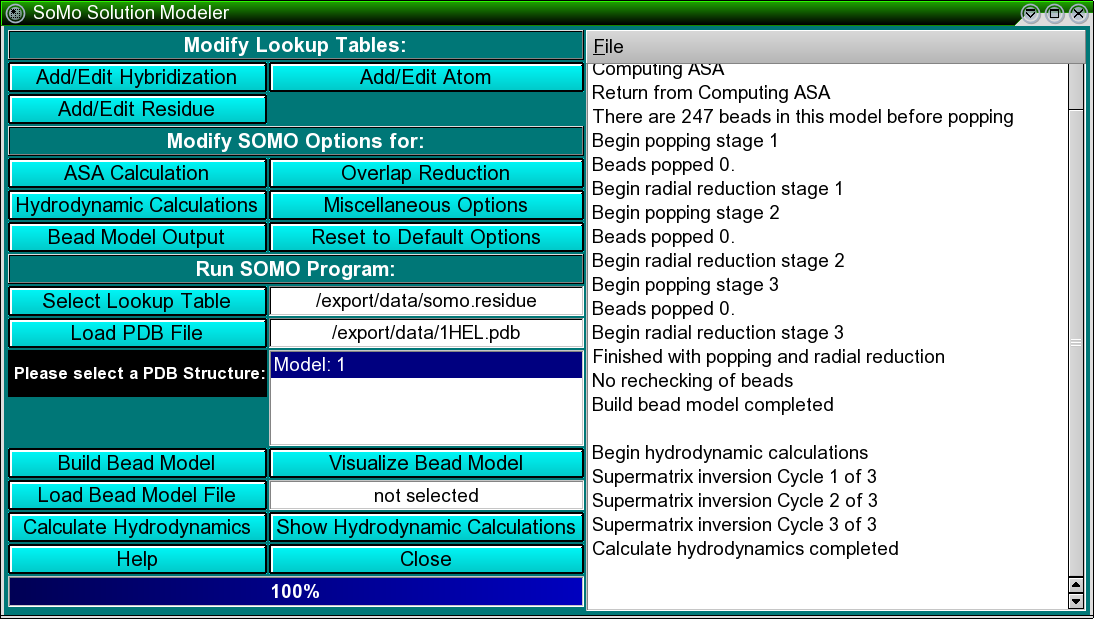
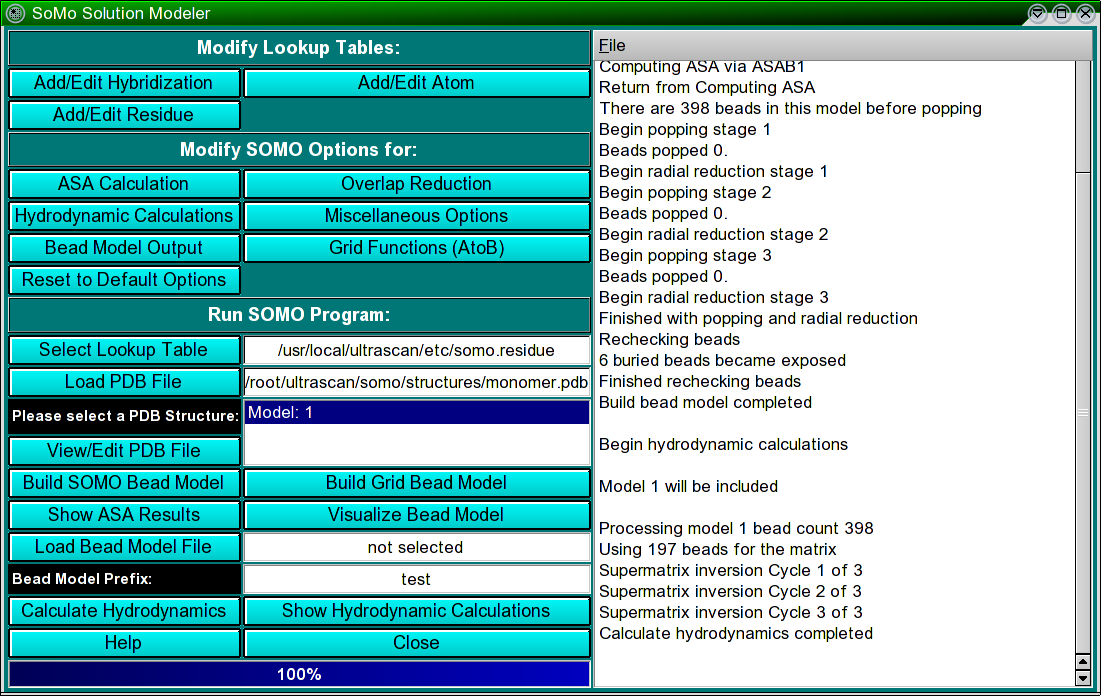
New files for grid options

diff --git a/develop/src/us_hydrodyn_grid.cpp b/develop/src/us_hydrodyn_grid.cpp
@@ -1,0 +1,182 @@
+#include "../include/us_hydrodyn_grid.h"
+
+US_Hydrodyn_Grid::US_Hydrodyn_Grid(struct grid_options *grid,
+bool *grid_widget, QWidget *p, const char *name) : QFrame(p, name)
+{
+	this->grid = grid;
+	this->grid_widget = grid_widget;
+	*grid_widget = true;
+	USglobal=new US_Config();
+	setPalette(QPalette(USglobal->global_colors.cg_frame, USglobal->global_colors.cg_frame, USglobal->global_colors.cg_frame));
+	setCaption(tr("SOMO Grid Function Options (AtoB)"));
+	setupGUI();
+	global_Xpos += 30;
+	global_Ypos += 30;
+	setGeometry(global_Xpos, global_Ypos, 0, 0);
+}
+
+US_Hydrodyn_Grid::~US_Hydrodyn_Grid()
+{
+	*grid_widget = false;
+}
+
+void US_Hydrodyn_Grid::setupGUI()
+{
+	int minHeight1 = 30;
+	QString str;	
+	lbl_info = new QLabel(tr("SOMO Grid Function Options (AtoB):"), this);
+	Q_CHECK_PTR(lbl_info);
+	lbl_info->setFrameStyle(QFrame::WinPanel|QFrame::Raised);
+	lbl_info->setAlignment(AlignCenter|AlignVCenter);
+	lbl_info->setMinimumHeight(minHeight1);
+	lbl_info->setPalette(QPalette(USglobal->global_colors.cg_frame, USglobal->global_colors.cg_frame, USglobal->global_colors.cg_frame));
+	lbl_info->setFont(QFont( USglobal->config_list.fontFamily, USglobal->config_list.fontSize + 1, QFont::Bold));
+
+	lbl_cube_side = new QLabel(tr(" Cube Side (Angstrom): "), this);
+	Q_CHECK_PTR(lbl_cube_side);
+	lbl_cube_side->setAlignment(AlignLeft|AlignVCenter);
+	lbl_cube_side->setMinimumHeight(minHeight1);
+	lbl_cube_side->setPalette( QPalette(USglobal->global_colors.cg_label, USglobal->global_colors.cg_label, USglobal->global_colors.cg_label));
+	lbl_cube_side->setFont(QFont( USglobal->config_list.fontFamily, USglobal->config_list.fontSize-1, QFont::Bold));
+
+	cnt_cube_side= new QwtCounter(this);
+	Q_CHECK_PTR(cnt_cube_side);
+	cnt_cube_side->setRange(0.1, 100, 0.1);
+	cnt_cube_side->setValue((*grid).cube_side);
+	cnt_cube_side->setMinimumHeight(minHeight1);
+	cnt_cube_side->setEnabled(true);
+	cnt_cube_side->setNumButtons(3);
+	cnt_cube_side->setFont(QFont(USglobal->config_list.fontFamily, USglobal->config_list.fontSize));
+	cnt_cube_side->setPalette( QPalette(USglobal->global_colors.cg_normal, USglobal->global_colors.cg_normal, USglobal->global_colors.cg_normal));
+	connect(cnt_cube_side, SIGNAL(valueChanged(double)), SLOT(update_cube_side(double)));
+
+	bg_center = new QButtonGroup(2, Qt::Horizontal, "Computations Relative to:", this);
+	bg_center->setExclusive(true);
+	connect(bg_center, SIGNAL(clicked(int)), this, SLOT(select_center(int)));
+
+	cb_center_mass = new QCheckBox(bg_center);
+	cb_center_mass->setText(tr(" Center of Mass "));
+	cb_center_mass->setEnabled(true);
+	cb_center_mass->setFont(QFont( USglobal->config_list.fontFamily, USglobal->config_list.fontSize));
+	cb_center_mass->setPalette( QPalette(USglobal->global_colors.cg_normal, USglobal->global_colors.cg_normal, USglobal->global_colors.cg_normal));
+
+	cb_center_cubelet = new QCheckBox(bg_center);
+	cb_center_cubelet->setText(tr(" Center of Cubelet "));
+	cb_center_cubelet->setEnabled(true);
+	cb_center_cubelet->setFont(QFont( USglobal->config_list.fontFamily, USglobal->config_list.fontSize));
+	cb_center_cubelet->setPalette( QPalette(USglobal->global_colors.cg_normal, USglobal->global_colors.cg_normal, USglobal->global_colors.cg_normal));
+
+	bg_center->setButton((*grid).center);
+
+	cb_cubic = new QCheckBox(this);
+	cb_cubic->setText(tr(" Apply Cubic Grid "));
+	cb_cubic->setChecked((*grid).cubic);
+	cb_cubic->setFont(QFont( USglobal->config_list.fontFamily, USglobal->config_list.fontSize));
+	cb_cubic->setPalette( QPalette(USglobal->global_colors.cg_normal, USglobal->global_colors.cg_normal, USglobal->global_colors.cg_normal));
+	connect(cb_cubic, SIGNAL(clicked()), this, SLOT(set_cubic()));
+
+	cb_hydrate = new QCheckBox(this);
+	cb_hydrate->setText(tr(" Hydrate the Original Model "));
+	cb_hydrate->setChecked((*grid).hydrate);
+	cb_hydrate->setFont(QFont( USglobal->config_list.fontFamily, USglobal->config_list.fontSize));
+	cb_hydrate->setPalette( QPalette(USglobal->global_colors.cg_normal, USglobal->global_colors.cg_normal, USglobal->global_colors.cg_normal));
+	connect(cb_hydrate, SIGNAL(clicked()), this, SLOT(set_hydrate()));
+
+	cb_tangency = new QCheckBox(this);
+	cb_tangency->setText(tr(" Expand Beads to Tangency "));
+	cb_tangency->setChecked((*grid).tangency);
+	cb_tangency->setFont(QFont( USglobal->config_list.fontFamily, USglobal->config_list.fontSize));
+	cb_tangency->setPalette( QPalette(USglobal->global_colors.cg_normal, USglobal->global_colors.cg_normal, USglobal->global_colors.cg_normal));
+	connect(cb_tangency, SIGNAL(clicked()), this, SLOT(set_tangency()));
+
+	cb_overlaps = new QCheckBox(this);
+	cb_overlaps->setText(tr(" Remove Overlaps "));
+	cb_overlaps->setChecked((*grid).overlaps);
+	cb_overlaps->setFont(QFont( USglobal->config_list.fontFamily, USglobal->config_list.fontSize));
+	cb_overlaps->setPalette( QPalette(USglobal->global_colors.cg_normal, USglobal->global_colors.cg_normal, USglobal->global_colors.cg_normal));
+	connect(cb_overlaps, SIGNAL(clicked()), this, SLOT(set_overlaps()));
+
+	pb_cancel = new QPushButton(tr("Close"), this);
+	Q_CHECK_PTR(pb_cancel);
+	pb_cancel->setFont(QFont( USglobal->config_list.fontFamily, USglobal->config_list.fontSize + 1));
+	pb_cancel->setMinimumHeight(minHeight1);
+	pb_cancel->setPalette( QPalette(USglobal->global_colors.cg_pushb, USglobal->global_colors.cg_pushb_disabled, USglobal->global_colors.cg_pushb_active));
+	connect(pb_cancel, SIGNAL(clicked()), SLOT(cancel()));
+
+	pb_help = new QPushButton(tr("Help"), this);
+	Q_CHECK_PTR(pb_help);
+	pb_help->setFont(QFont( USglobal->config_list.fontFamily, USglobal->config_list.fontSize + 1));
+	pb_help->setMinimumHeight(minHeight1);
+	pb_help->setPalette( QPalette(USglobal->global_colors.cg_pushb, USglobal->global_colors.cg_pushb_disabled, USglobal->global_colors.cg_pushb_active));
+	connect(pb_help, SIGNAL(clicked()), SLOT(help()));
+
+	int rows=6, columns = 2, spacing = 2, j=0, margin=4;
+	QGridLayout *background=new QGridLayout(this, rows, columns, margin, spacing);
+
+	background->addMultiCellWidget(lbl_info, j, j, 0, 1);
+	j++;
+	background->addMultiCellWidget(bg_center, j, j+2, 0, 1);
+	j+=3;
+	background->addWidget(lbl_cube_side, j, 0);
+	background->addWidget(cnt_cube_side, j, 1);
+	j++;
+	background->addWidget(cb_cubic, j, 0);
+	background->addWidget(cb_hydrate, j, 1);
+	j++;
+	background->addWidget(cb_overlaps, j, 0);
+	background->addWidget(cb_tangency, j, 1);
+	j++;
+	background->addWidget(pb_help, j, 0);
+	background->addWidget(pb_cancel, j, 1);
+}
+
+void US_Hydrodyn_Grid::update_cube_side(double val)
+{
+	(*grid).cube_side = val;
+}
+
+void US_Hydrodyn_Grid::select_center(int val)
+{
+	(*grid).center = (bool) val;
+}
+
+void US_Hydrodyn_Grid::set_hydrate()
+{
+	(*grid).hydrate = cb_hydrate->isChecked();
+}
+
+void US_Hydrodyn_Grid::set_cubic()
+{
+	(*grid).cubic = cb_cubic->isChecked();
+}
+
+void US_Hydrodyn_Grid::set_tangency()
+{
+	(*grid).tangency = cb_tangency->isChecked();
+}
+
+void US_Hydrodyn_Grid::set_overlaps()
+{
+	(*grid).overlaps = cb_overlaps->isChecked();
+}
+
+void US_Hydrodyn_Grid::cancel()
+{
+	close();
+}
+
+void US_Hydrodyn_Grid::help()
+{
+	US_Help *online_help;
+	online_help = new US_Help(this);
+	online_help->show_help("manual/somo_grid.html");
+}
+
+void US_Hydrodyn_Grid::closeEvent(QCloseEvent *e)
+{
+	*grid_widget = false;
+	global_Xpos -= 30;
+	global_Ypos -= 30;
+	e->accept();
+}
+

diff --git a/develop/include/us_hydrodyn_grid.h b/develop/include/us_hydrodyn_grid.h
@@ -1,0 +1,84 @@
+#ifndef US_HYDRODYN_GRID_H
+#define US_HYDRODYN_GRID_H
+
+// QT defs:
+
+#include <qlabel.h>
+#include <qstring.h>
+#include <qlayout.h>
+#include <qpushbutton.h>
+#include <qbuttongroup.h>
+#include <qframe.h>
+#include <qcheckbox.h>
+#include <qwt_counter.h>
+#include "us_util.h"
+
+//standard C and C++ defs:
+
+#include <iostream>
+
+using namespace std;
+
+struct grid_options
+{
+	bool cubic; 	// apply cubic grid
+	bool hydrate; 	// true: hydrate model
+	bool center; 	// true: center of mass
+						// false: center of cubelet
+	bool overlaps;	// true: remove overlaps
+	bool tangency;	// true: Expand beads to tangency
+	double cube_side; 
+};
+
+class US_EXTERN US_Hydrodyn_Grid : public QFrame
+{
+	Q_OBJECT
+
+	public:
+		US_Hydrodyn_Grid(struct grid_options *, bool *, QWidget *p = 0, const char *name = 0);
+		~US_Hydrodyn_Grid();
+
+	public:
+		
+		struct grid_options *grid;
+		bool *grid_widget;
+		
+		QwtCounter *cnt_cube_side;
+		QButtonGroup *bg_center;
+		QCheckBox *cb_cubic;
+		QCheckBox *cb_hydrate;
+		QCheckBox *cb_center_mass;
+		QCheckBox *cb_center_cubelet;
+		QCheckBox *cb_overlaps;
+		QCheckBox *cb_tangency;
+		
+		US_Config *USglobal;
+		
+		QLabel *lbl_info;
+		QLabel *lbl_cube_side;
+
+		QPushButton *pb_help;
+		QPushButton *pb_cancel;
+
+	private slots:
+		
+		void setupGUI();
+		void update_cube_side(double);
+		void select_center(int);
+		void set_hydrate();
+		void set_tangency();
+		void set_cubic();
+		void set_overlaps();
+		void cancel();
+		void help();
+	
+	protected slots:
+
+		void closeEvent(QCloseEvent *);
+
+};
+
+
+
+#endif
+
